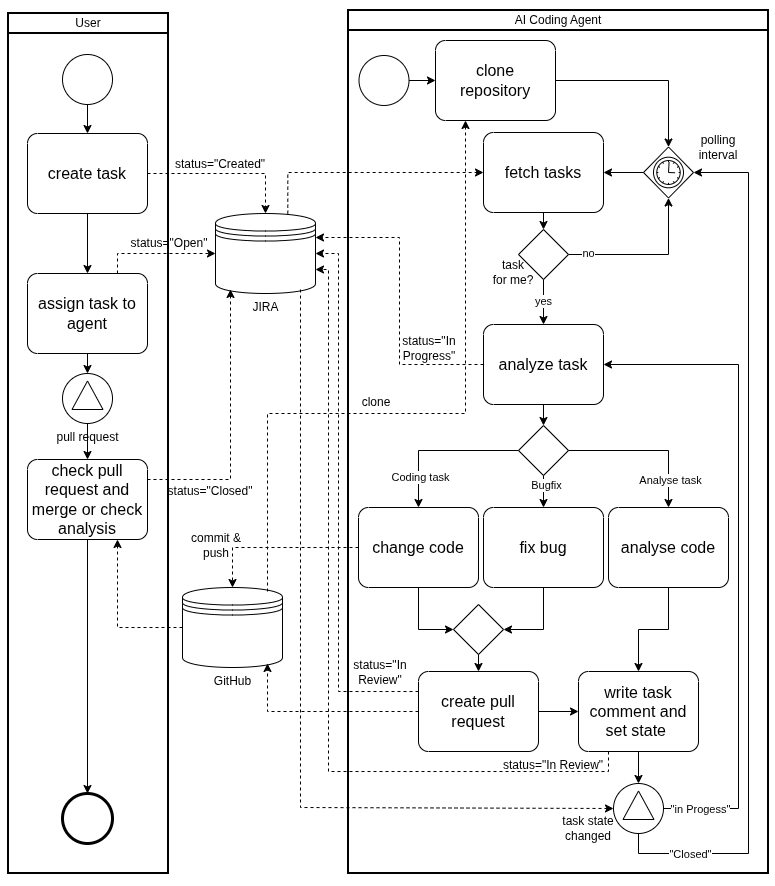
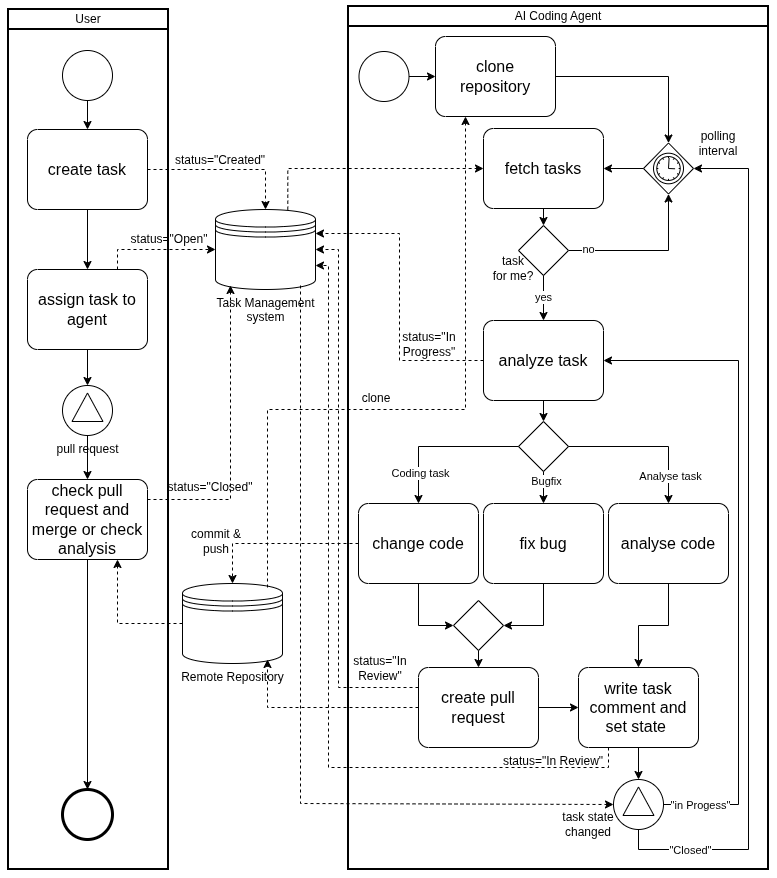
updated README.md

diff --git a/README.md b/README.md
@@ -11,6 +11,8 @@ It operates completely unsupervised to:
 - **Analyze/Write** code or fix bugs
 - **Push** changes via pull requests to your remote repository
 
+Containerization using Docker makes it possible to run the AI Agent anywhere: in the cloud, in the company network, or even locally on your computer.
+
 ## Solve the Talent Bottleneck with Artificial Developers
 
 Modern software is complex. It relies on the collaboration of specialized teams across backend, frontend, database, 
@@ -26,7 +28,7 @@ As a **Proof of Concept (POC)**, the system demonstrates the following advanced 
 
 - **Multi-Agent Architecture:** Uses **LangGraph** to route tasks to specialized sub-agents (`Coder`, `Bugfixer`, `Analyst`).
 - **Autonomous Git Operations:** Manages the full Git lifecycle—cloning, branching, committing, pushing, and pull requests—using the **Model Context Protocol (MCP)**.
-- **Task Management Integration:** Connects via REST API to external task/issue management systems (e.g. JIRA) to retrieve assignments and report status updates automatically.
+- **Task Management Integration:** Connects to external task/issue management systems (e.g. JIRA) to retrieve assignments and report status updates automatically.
 - **Resilient AI Logic:** Features advanced **self-healing mechanisms** with retry loops and iterative prompting to prevent stalling and minimize hallucinations.
 - **Dockerized & Scalable:** Runs in secure, isolated containers, allowing for effortless horizontal scaling—simply spin up additional instances to expand your virtual workforce on demand.
 
@@ -39,6 +41,7 @@ Key milestones for professionalization include:
 - **Integrated Build Management & QA:** Implementation of industry-standard build tools (e.g., Maven, Gradle) directly within the agent's environment. Agents will compile code and execute local tests before committing, acting as a quality gate to ensure only functional, bug-free code enters the repository.
 - **Active Code Reviews:** Agents will evolve from pure contributors to reviewers. They will analyze open Pull Requests, provide constructive feedback on code quality and security, and suggest optimizations—acting as an automated senior developer.
 - **Collaborative Swarm Intelligence:** Moving beyond isolated tasks, agents will be capable of communicating and collaborating with each other. This "swarm" capability will allow multiple agents to work jointly on complex, large-scale features, ensuring architectural consistency across the codebase.
+- **Choose your preferred LLM** Support of other LLM providers, included open source models that run locally. 
 
 **Commercialization & Next Steps** To realize this vision, we are transitioning this project into a dedicated startup. We plan to accelerate development through an upcoming crowdfunding campaign.
 
